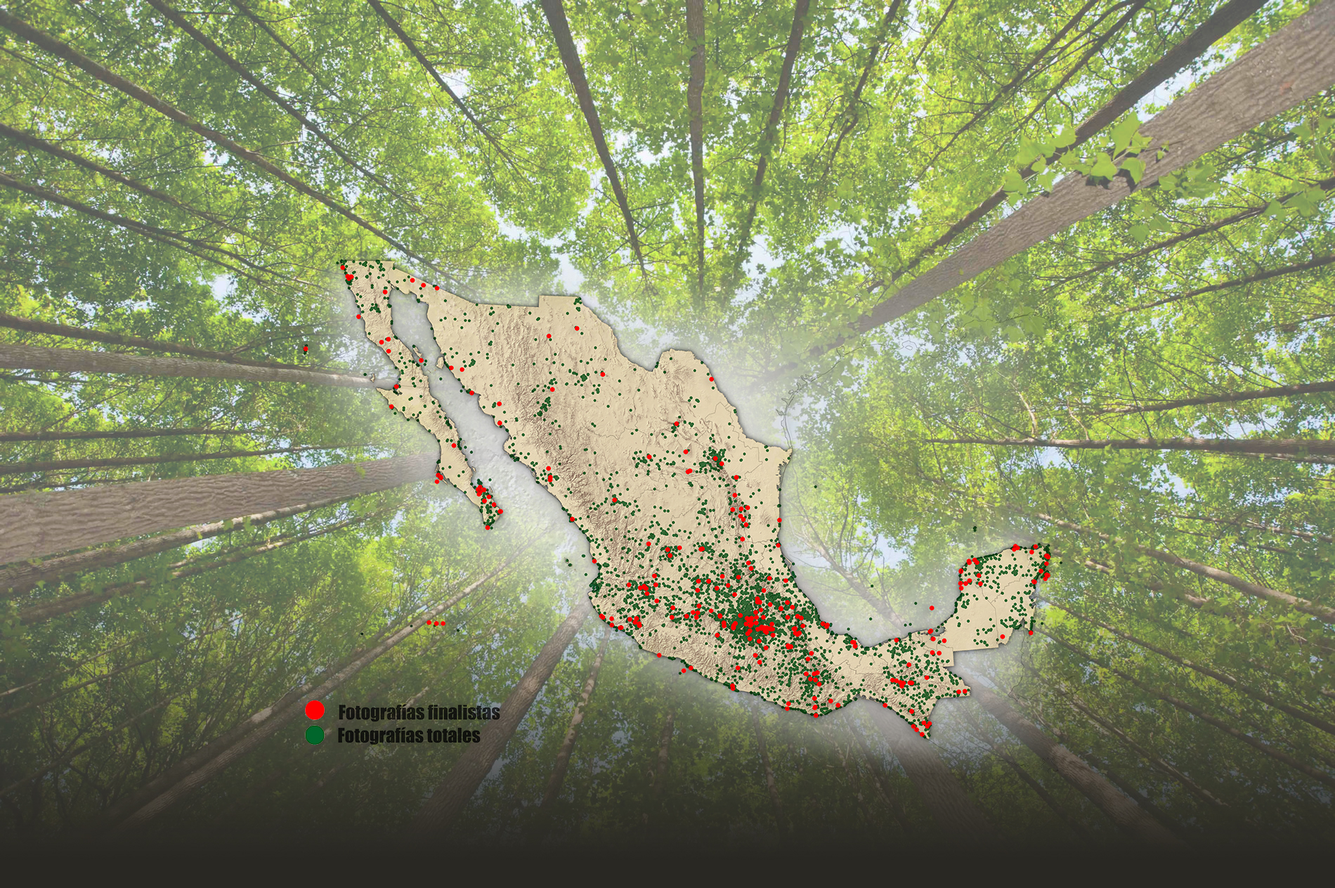
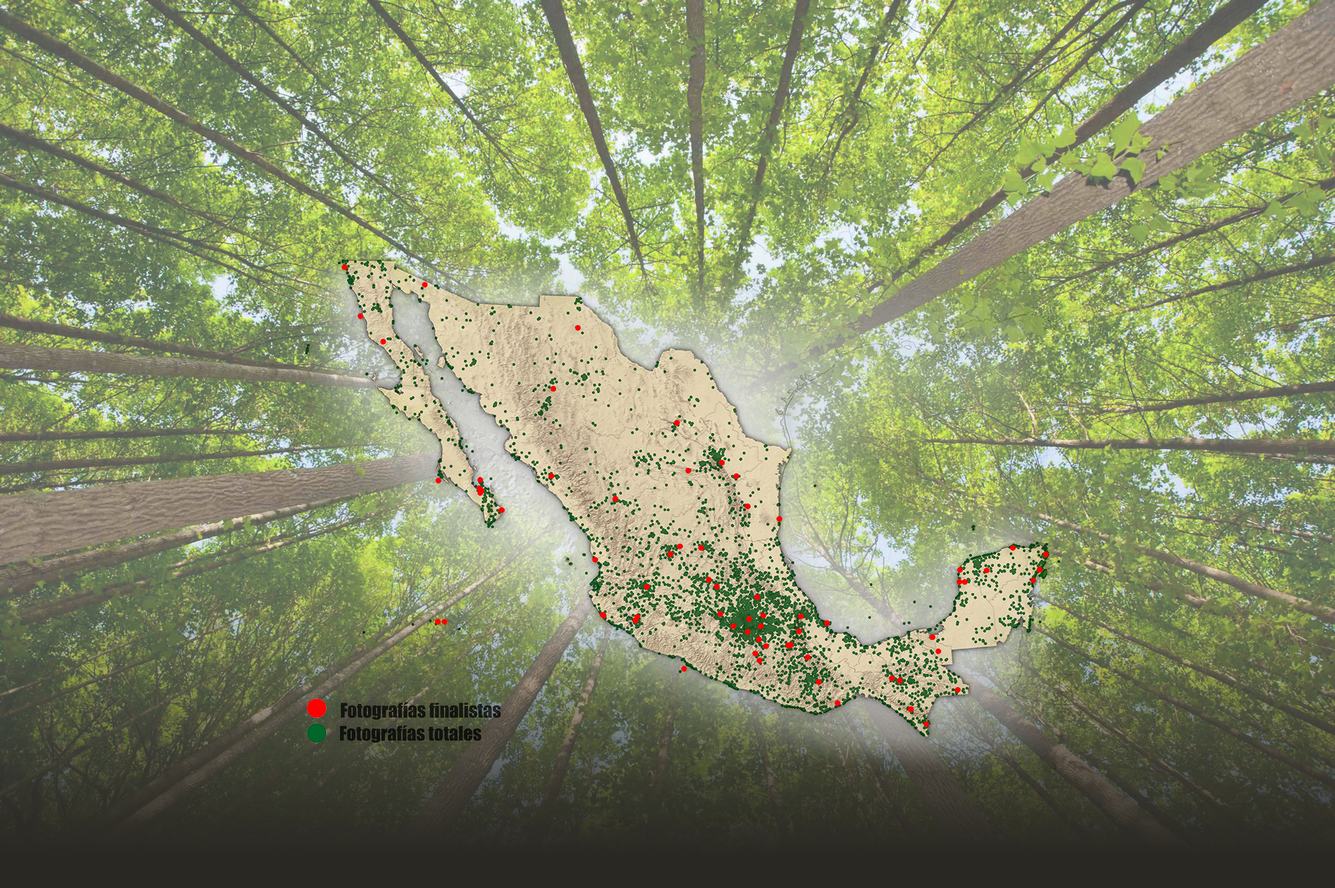
cambios flopez

Changed region(s): [[0.2484, 0.2777, 0.8074, 0.8331], [0.2174, 0.7714, 0.3726, 0.8331]]

diff --git a/protected/views/site/index.php b/protected/views/site/index.php
@@ -77,7 +77,8 @@
 	<div class="bases-section">
 		<div class="container">
 			<div class="col-lg-8 col-lg-offset-2">
-				<h2>BASES DEL CONCURSO</h2>
+				<h2>FINALISTAS DEL CONCURSO<br>
+			</h2>
 
 			</div>
 		</div>
@@ -85,274 +86,12 @@
 
 	<div class="bases-content">
 		<div class="container">
-
-			<div class="col-lg-12 col-xs-12 bases-titulo">
-				<h3>CATEGOR&Iacute;AS Y PREMIOS</h3>
-			</div>
-
-			<div class="col-md-6 col-xs-12">
-
-				<h3>ADULTOS <i class="fa fa-caret-right"></i>   <span  class="pleca_ama">Hasta 5 fotos por participante, 1 por cada tema</span></h3>
-				<h4 class="bases-izq">Temas</h4>
-				<div class="categorias-adultos">
-					<dl class="dl-horizontal">
-						<dt><img src="<?php echo $yii_path; ?>/img/bases-01.png" alt="Fauna"></dt>
-						<dd><span style="color:#ffd400; font-weight:bold;">Fauna</span><br/>Fotos de animales en vida silvestre. No se aceptan fotos en cautiverio, ni animales dom&eacute;sticos o mascotas.</dd>
-						<dt><img src="<?php echo $yii_path; ?>/img/bases-02.png" alt="Plantas y Hongos"></dt>
-						<dd><span style="color:#ffd400; font-weight:bold;">Plantas y Hongos</span><br/>Fotos de plantas y hongos en vida silvestre. No se aceptan fotos de plantas cultivadas de maceta o jard&iacute;n.</dd>
-						<dt><img src="<?php echo $yii_path; ?>/img/bases-03.png" alt="Paisajes"></dt>
-						<dd><span style="color:#ffd400; font-weight:bold;">Paisajes</span><br/>Vistas a&eacute;reas, terrestres, acu&aacute;ticas y subacu&aacute;ticas, donde se enfatizan elementos naturales.</dd>
-						<dt><img src="<?php echo $yii_path; ?>/img/bases-04.png" alt="Naturaleza y ser humano"></dt>
-						<dd><span style="color:#ffd400; font-weight:bold;">Naturaleza y ser humano</span><br/>Usos y costumbres relacionados con el entorno natural: actividades agr&iacute;colas, artesanales, gastron&oacute;micas, medicinales, espirituales, recreativas, ceremoniales. Escenas de manejo sustentable.</dd>
-						<dt><img src="<?php echo $yii_path; ?>/img/bases-05.png" alt="Solo un mundo"></dt>
-						<dd><span style="color:#ffd400; font-weight:bold;">Solo un mundo</span><br/>Im&aacute;genes de paisajes, y/o flora y fauna deteriorados o impactados directa o indirectamente por actividades humanas.</dd>
-					</dl>
-
-				</div>
-				<h4 class="bases-der">Premios <span style="font-size:22px; line-height:15px;"><br/>(por cada tema)</span></h4>
-				<table class="tabla-premios-adulto" width="100%" border="0" cellpadding="0" cellspacing="0">
-					<tr>
-						<td valign="bottom"><img src="<?php echo $yii_path; ?>/img/bases-06.png">
-							<table width="100%" border="3" cellpadding="0" cellspacing="0" style="border-color:#ffd400; border-style:solid; border-right-width:0">
-								<tr>
-									<td bgcolor="#403d35" style="padding:10px 0;">$20,000 pesos<br>
-										Suscripci&oacute;n anual:<br>
-										National Geographic en Espa&ntilde;ol<br>
-										Mexican&iacute;simo<br></td>
-								</tr>
-							</table>
-						</td>
-						<td valign="bottom"><img src="<?php echo $yii_path; ?>/img/bases-07.png">
-							<table width="100%" border="3" cellpadding="0" cellspacing="0" style="border-color:#ffd400; border-style:solid;">
-								<tr>
-									<td bgcolor="#403d35" style="padding:15px 0;">$25,000 pesos<br>C&aacute;mara Reflex Nikon<br>Viaje a una ANP<br>Suscripci&oacute;n anual:<br>National Geographic en Espa&ntilde;ol<br>Mexican&iacute;simo<br></td>
-								</tr>
-							</table>
-						</td>
-						<td valign="bottom"><img src="<?php echo $yii_path; ?>/img/bases-08.png">
-							<table width="100%" border="3" cellpadding="0" cellspacing="0" style="border-color:#ffd400; border-style:solid; border-left-width:0">
-								<tr>
-									<td bgcolor="#403d35" style="padding:5px 0;" >$15,000 pesos<br>
-										Suscripci&oacute;n anual:<br>
-										National Geographic en Espa&ntilde;ol<br>
-										Mexican&iacute;simo</td>
-								</tr>
-							</table>
-						</td>
-					</tr>
-				</table>
-
-				<div class="cintillo-adultos">
-					<p><strong>2 Menciones honor&iacute;ficas</strong><br/>Suscripci&oacute;n anual: National Geographic en Espa&ntilde;ol, M&eacute;xico Desconocido, Mexican&iacute;simo</p>
-				</div>
-				<h4 class="bases-izq">Formatos</h4>
-
-
-
-				<div id="formatos-wrapper">
-					<div class="faq-formatos">
-						<img src="<?php echo $yii_path; ?>/img/bases-10.png">
-						<ul>
-							<li>Resoluci&oacute;n 300 DPI</li>
-							<li>Tama&ntilde;o m&iacute;nimo: 3,000 pixeles por lado m&aacute;s grande</li>
-							<li>Sin marcas de agua</li>
-							<li>Sin alteraciones digitales</li>
-							<li><a href="<?php echo $yii_path; ?>/descargar/tutorial_foto.pdf"><i class="fa fa-caret-right"></i> Ver tutorial</a></li>
-						</ul>
-					</div>
-				</div>
-
-				<table class="warning" width="100%" border="0">
-					<tr>
-						<td><i class="fa fa-exclamation-triangle fa-lg"></i></td>
-						<td>Las fotograf&iacute;as que no cumplan con los requisitos, autom&aacute;ticamente ser&aacute;n eliminadas por el sistema.</td>
-					</tr>
-				</table>
-
-
-
-
-			</div>
-
-			<div class="col-md-6 col-xs-12">
-				<h3>J&Oacute;VENES		<i class="fa fa-caret-right"></i>   <span class="pleca_ama">2 fotos por participante, tema libre</span></h3>
-				<p>Fotos en M&eacute;xico de animales o plantas en su ambiente natural, paisajes naturales, actividades relacionadas con el ser humano y la naturaleza. No se aceptan fotos de plantas cultivadas, animales en cautiverio o en ambientes controlados.</p>
-				<img src="<?php echo $yii_path; ?>/img/bases-11.png">
-				<h4 class="bases-izq">Premios</h4>
-
-				<table class="tabla-premios-jovenes" width="100%" border="0">
-					<tr>
-						<td>
-							<table width="100%" border="0">
-								<tr>
-									<td width="10%" bgcolor="#99141b" style="text-align:right; padding:8px 5px;"><img src="<?php echo $yii_path; ?>/img/bases-07.png" alt="primer lugar"></td>
-									<td bgcolor="#42423d" style="padding:5px;">C&aacute;mara Reflex Nikon. Suscripci&oacute;n anual: National Geographic en Espa&ntilde;ol, Mexican&iacute;simo
-									</td>
-								</tr>
-							</table>
-
-						</td>
-					</tr>
-					<tr>
-						<td>
-							<table width="100%" border="0">
-								<tr>
-									<td width="20%" bgcolor="#99141b" style="text-align:right; padding:8px 5px;"><img src="<?php echo $yii_path; ?>/img/bases-06.png" alt="primer lugar"></td>
-									<td bgcolor="#575652" style="padding:5px;">C&aacute;mara Reflex Nikon. Suscripci&oacute;n anual: National Geographic en Espa&ntilde;ol, Mexican&iacute;simo
-									</td>
-								</tr>
-							</table>
-
-						</td>
-					</tr>
-					<tr>
-						<td>
-							<table width="100%" border="0">
-								<tr>
-									<td width="30%" bgcolor="#99141b" style="text-align:right; padding:8px 5px;"><img src="<?php echo $yii_path; ?>/img/bases-08.png" alt="primer lugar"></td>
-									<td bgcolor="#6c6c68" style="padding:5px;">C&aacute;mara Reflex Nikon. Suscripci&oacute;n anual: National Geograph;ic en Espa&ntilde;ol, Mexican&iacute;simo
-									</td>
-								</tr>
-							</table>
-						</td>
-					</tr>
-				</table>
-
-
-				<div id="video-wrapper">
-					<h3>VIDEO		<i class="fa fa-caret-right"></i>   <span class="pleca_ama">1 video por participante</span></h3>
-				</div>
-				<p>Videos que representen la belleza natural de alg&uacute;n lugar, la conducta de una o varias especies de animales o plantas y su entorno en una narrativa visual. Los videos pueden editarse y musicalizarse. La musicalizaci&oacute;n, si es el caso, deber&aacute; ser m&uacute;sica original o bien audios libres de derechos de autor o con derechos de distribuci&oacute;n sin fines de lucro.</p>
-
-				<h4 class="bases-izq">Formato</h4>
-
-				<div class="vid-formato">
-					<img src="<?php echo $yii_path; ?>/img/bases-13.png">
-					<ul>
-						<li>Duraci&oacute;n de 30 a 60 segundos</li>
-						<li>Dimensiones Full HD (1920 x 1080 px)</li>
-						<li>Sin marcas de agua</li>
-						<li>Sin subt&iacute;tulos</li>
-					</ul>
-				</div>
-
-				<div id="adv-specs">
-					<p>Especificaciones avanzadas<br/>Codecs opcionales: ProRes, DVCPRO HDp30, Photo JPG</p>
-				</div>
-
-				<h4 class="bases-der">Premios</h4>
-
-				<table class="premiosvid">
-  						<tr>
-                            <td colspan="3" class="bfilm">&nbsp;</td>
-                      </tr>
-  						<tr>
-  						  <td valign="top">
-                          <table width="100%">
-  						    <tr>
-  						      <td class="premiosvid2"><img src="<?php echo $yii_path; ?>/img/bases-07.png"></td>
-					        </tr>
-  						    <tr>
-  						      <td class="premiosvid2">$25,000 pesos<br/>
-  						        C&aacute;mara Reflex Nikon<br/>
-  						        Viaje a una ANP<br/>
-  						        Suscripci&oacute;n anual:<br/>
-  						        National Geographic en Espa&ntilde;ol<br/>
-  						        Mexican&iacute;simo</td>
-					        </tr>
-					      </table></td>
-  						  <td valign="top" ><table width="100%">
-  						    <tr>
-  						      <td class="premiosvid2"><img src="<?php echo $yii_path; ?>/img/bases-06.png"></td>
-					        </tr>
-  						    <tr>
-  						      <td class="premiosvid2"><br>
-  						        <br>
-  						        $20,000 pesos<br/>
-  						        Suscripci&oacute;n anual:<br/>
-  						        National Geographic en Espa&ntilde;ol<br/>
-  						        Mexican&iacute;simo</td>
-					        </tr>
-					      </table></td>
-  						  <td valign="top"><table width="100%">
-  						    <tr>
-  						      <td class="premiosvid2"><img src="<?php echo $yii_path; ?>/img/bases-08.png"></td>
-					        </tr>
-  						    <tr>
-  						      <td class="premiosvid2"><br>
-  						        <br>
-  						        $15,000 pesos<br/>
-  						        Suscripci&oacute;n anual:<br/>
-  						        National Geographic en Espa&ntilde;ol<br/>
-  						        Mexican&iacute;simo</td>
-					        </tr>
-					      </table></td>
-					  </tr>
-  						<tr>
-  						  <td colspan="3" class="bfilm">&nbsp;</td>
-					  </tr>
-					</table>
-                    
-
-			</div>
-
-			<div id="reconocimiento-md" class="col-lg-12">
-				<table class="recxestado" width="100%" height="56px" border="0">
-					<tr>
-						<td width="10%" bgcolor="#403d35" ><img src="<?php echo $yii_path; ?>/img/bases-15.png" alt="méxico"></td>
-						<td width="30%" bgcolor="#403d35" style="font-weight:bold;">Reconocimiento especial por estado</td>
-						<td bgcolor="#595448" style="text-align:left; padding:0;"><img src="<?php echo $yii_path; ?>/img/bases-16.png"></td>
-						<td bgcolor="#595448" style="text-align:left; padding-left:5px;">Ser&aacute; seleccionada la mejor foto de cada estado (32 seleccionadas) y participar&aacute; en la exposici&oacute;n Visiones de nuestra naturaleza y dos módulos de Nikon School. </td>
-					</tr>
-				</table>
-
-			</div>
-
-			<div id="reconocimiento-xs" class="col-xs-12">
-				<img src="<?php echo $yii_path; ?>/img/bases-15.png">
-				<h4>Reconocimiento especial por estado</h4>
-				<p>Ser&aacute; seleccionada la mejor foto de cada estado (32 seleccionadas) y participar&aacute; en la exposici&oacute;n Visiones de nuestra naturaleza y dos módulos de Nikon School. </p>
-
-			</div>
-
-			<div class="col-lg-12 col-xs-12 bases-titulo">
-				<h3>C&Oacute;MO PARTICIPAR</h3>
-			</div>
-
-			<div id="participar-md" class="col-lg-12">
-				<table class="como-participar" width="100%" border="0">
-					<tr>
-						<td>Entra a <a href="#">www.mosaiconatura.net</a><br/>y crea una cuenta</td>
-						<td><img src="<?php echo $yii_path; ?>/img/bases-17.png"></td>
-						<td>Confirma tu correo</td>
-						<td><img src="<?php echo $yii_path; ?>/img/bases-17.png"></td>
-						<td>Accede a tu cuenta</td>
-						<td><img src="<?php echo $yii_path; ?>/img/bases-17.png"></td>
-						<td>Sube tus fotos y llena el formulario con la informaci&oacute;n de cada una</td>
-						<td><img src="<?php echo $yii_path; ?>/img/bases-17.png"></td>
-						<td>Los resultados ser&aacute;n publicados en&#x3; <a href="#">www.mosaiconatura.net</a> </td>
-					</tr>
-				</table>
-			</div>
-
-			<div id="participar-xs" class="col-md-12 col-xs-12">
-				<p>Entra a <a href="#">www.mosaiconatura.net</a><br/>y crea una cuenta</p>
-				<p style="color:#ffd400"><i class="fa fa-chevron-down fa-lg"></i></p>
-				<p>Confirma tu correo</p>
-				<p style="color:#ffd400"><i class="fa fa-chevron-down fa-lg"></i></p>
-				<p>Accede a tu cuenta</p>
-				<p style="color:#ffd400"><i class="fa fa-chevron-down fa-lg"></i></p>
-				<p>Sube tus fotos y llena el formulario con la informaci&oacute;n de cada una</p>
-			</div>
-
-			<div class="col-xs-12 col-md-6 col-md-offset-3 fechas-concurso">
-				<p>La recepci&oacute;n de fotograf&iacute;as ser&aacute; del 1 de diciembre al 29 de febrero</p>
-			</div>
-
+		<iframe width="100%" height="700" src="http://200.12.166.51/janium/Galerias/12546/index.html" frameborder="0"></iframe>
 		</div>
 	</div>
 
 </section>
+
 
 <!-- Jurado Section -->
 <section id="jurado" class="content-section text-center">
